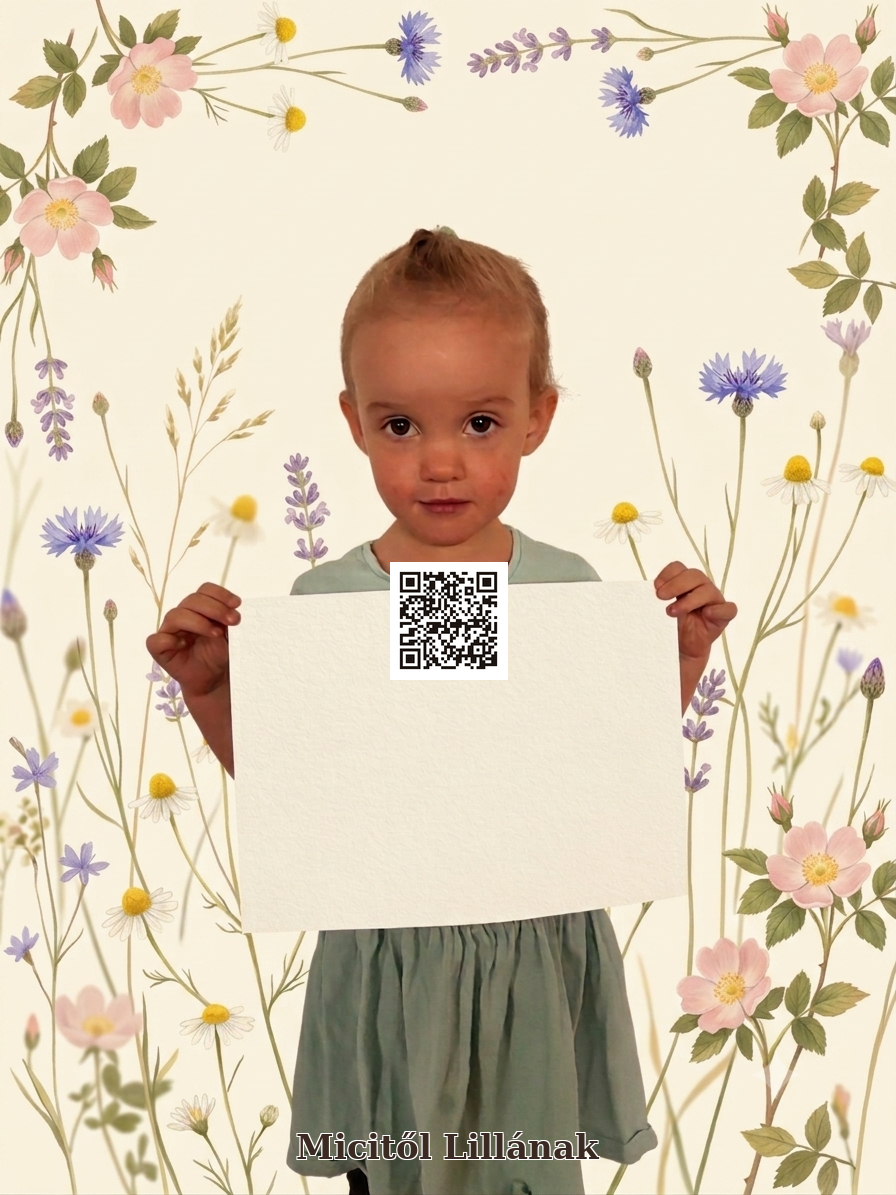
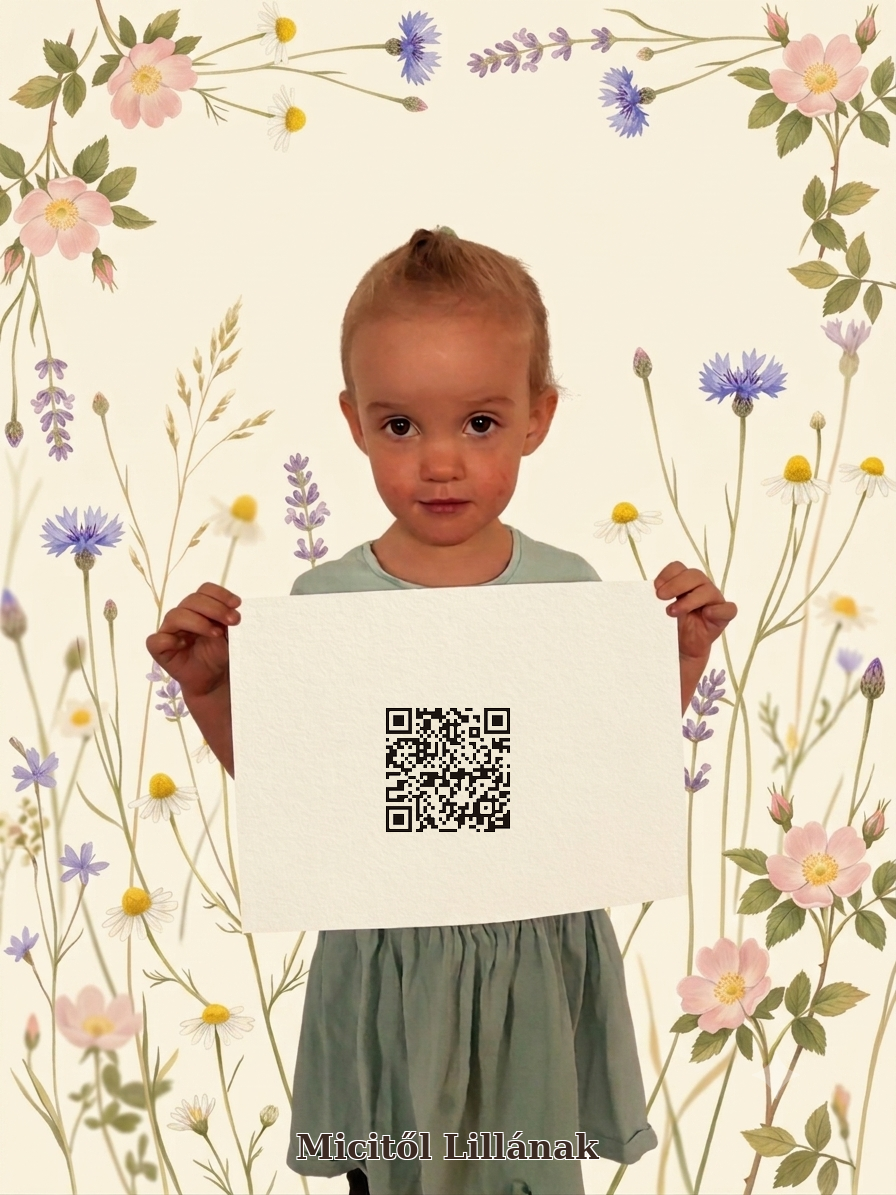
Position QR codes centrally on greeting cards

Changed region(s): [[0.4062, 0.4644, 0.5938, 0.7121]]

diff --git a/scripts/generate-greeting-cards.py b/scripts/generate-greeting-cards.py
@@ -18,8 +18,10 @@ TEMPLATE_PATH = ROOT / "source" / "img" / "greeting-template.png"
 OUTPUT_DIR = ROOT / "qrcodes" / "cards"
 FONT_PATH = Path("/usr/share/fonts/truetype/dejavu/DejaVuSerif-Bold.ttf")
 
-# Target QR placement on the white paper (px): left, top, right, bottom
-QR_BOX = (388, 551, 508, 671)
+# Measured on greeting-template.png (896x1195).  The QR belongs in the
+# marked centre of the paper, below the girl's hands and chin.
+PAPER_BOX = (240, 590, 679, 940)
+QR_BOX = (378, 700, 518, 840)
 TEXT_BOTTOM_OFFSET = 68
 
 TRACKS = [
@@ -61,27 +63,27 @@ def make_qr_image(url: str, size: int) -> Image.Image:
     )
     qr.add_data(url)
     qr.make(fit=True)
-    image = qr.make_image(fill_color="#1b1410", back_color="#ffffff").convert("RGB")
+    image = qr.make_image(
+        fill_color="#1b1410",
+        back_color="#ffffff",
+    ).convert("RGB")
     return image.resize((size, size), Image.Resampling.LANCZOS)
 
 
-def compose_card(template: Image.Image, track_name: str, recipient: str, url: str) -> Image.Image:
+def compose_card(template: Image.Image, recipient: str, url: str) -> Image.Image:
     card = template.copy()
     draw = ImageDraw.Draw(card)
 
     left, top, right, bottom = QR_BOX
-    qr_size = min(right - left, bottom - top)
+    qr_size = right - left
     qr = make_qr_image(url, qr_size)
 
-    qr_x = left + (right - left - qr_size) // 2
-    qr_y = top + (bottom - top - qr_size) // 2
-
-    margin = max(4, qr_size // 40)
-    draw.rectangle(
-        (qr_x - margin, qr_y - margin, qr_x + qr_size + margin, qr_y + qr_size + margin),
-        fill="#ffffff",
+    # Preserve the paper beneath the light QR modules.  This gives the QR
+    # code's light areas precisely the same colour and texture as the paper.
+    dark_modules = qr.convert("L").point(
+        lambda value: 255 if value < 128 else 0
     )
-    card.paste(qr, (qr_x, qr_y))
+    card.paste(qr, (left, top), dark_modules)
 
     caption = f"Micitől {recipient}"
     font_size = 34
@@ -106,9 +108,12 @@ def main() -> int:
     template = Image.open(TEMPLATE_PATH).convert("RGB")
     OUTPUT_DIR.mkdir(parents=True, exist_ok=True)
 
+    print(f"Paper box: {PAPER_BOX}")
+    print(f"QR box: {QR_BOX} ({QR_BOX[2] - QR_BOX[0]} px)")
+
     for track_name, recipient in TRACKS:
         url = build_track_url(base_url, track_name)
-        card = compose_card(template, track_name, recipient, url)
+        card = compose_card(template, recipient, url)
         output_path = OUTPUT_DIR / f"card-{slugify_filename(track_name)}.png"
         card.save(output_path, optimize=True)
         print(f"Generated {output_path.name} -> {url}")
